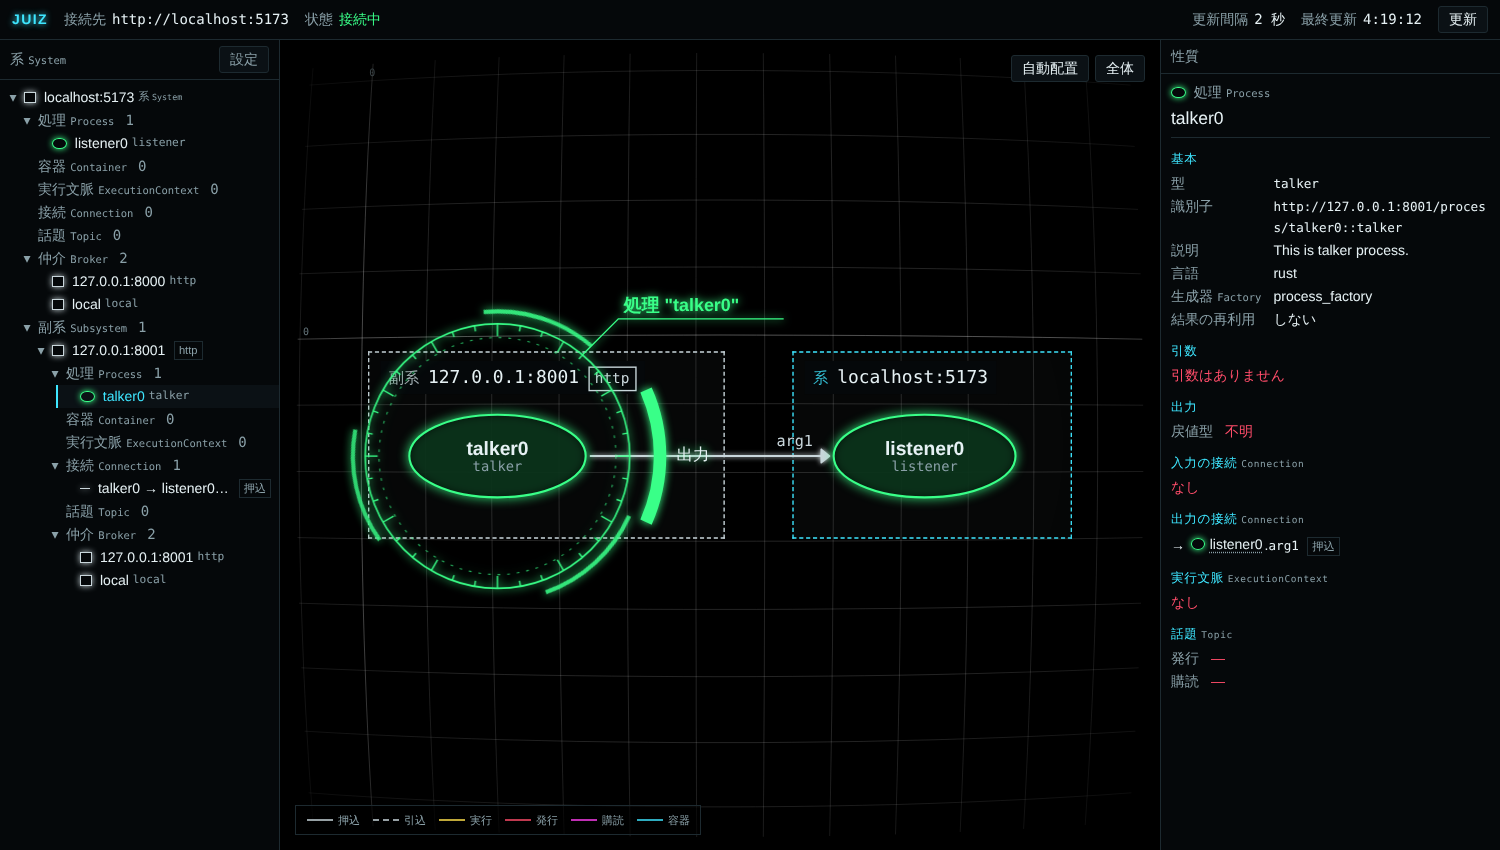
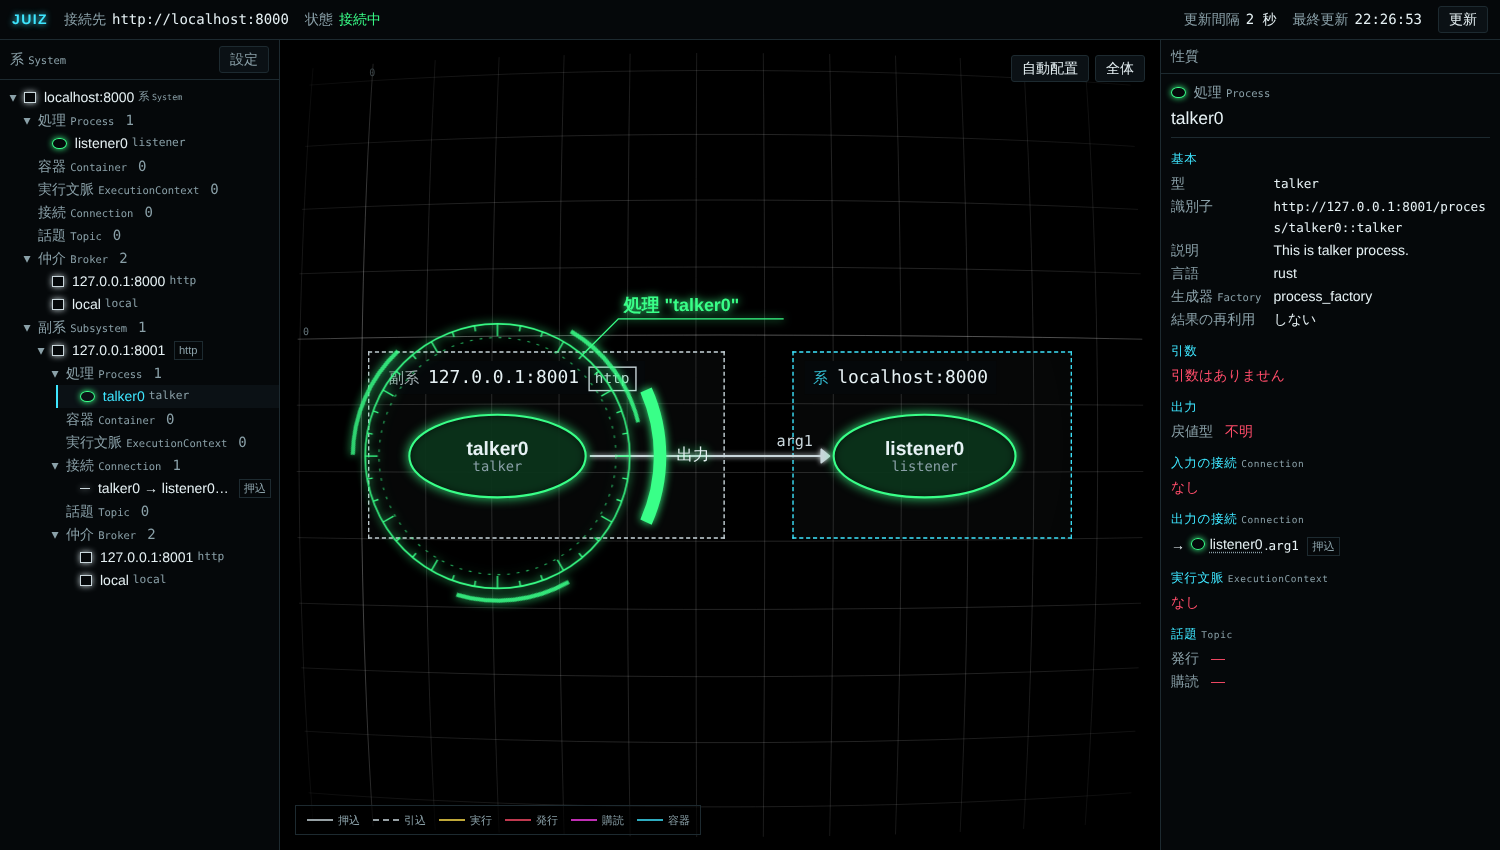
管理画面ガイドの副系のスクリーンショットを /ui/ で撮り直す
開発サーバー経由で撮った画像は接続先が localhost:5173 になっていたので、
同梱の画面(http://localhost:8000/ui/)で撮り直した。

Claude-Session: https://claude.ai/code/session_01DyphuKkuDa7LsSyixZ5rKR

diff --git a/src/content/docs/ja/guides/web-ui.md b/src/content/docs/ja/guides/web-ui.md
@@ -95,7 +95,7 @@ juiz に接続できなくなると、上部の状態が「未接続」になり
 [第6章 別々のプロセスをつなぐ](/ja/tutorial/multi-process/) のように、2 つ目の juiz が 1 つ目の juiz のサブシステムとして登録されていると、1 つ目の juiz の管理画面に 2 つ目の中身も出ます。
 たとえば listener を 8000 番、talker を 8001 番で起動して talker → listener をつないだあと、`http://localhost:8000/ui/` を開くと次のようになります。
 
-![副系の表示。副系 127.0.0.1:8001 の talker0 から、系の listener0 へ矢印が枠をまたいでいる](../../../../assets/web-ui/subsystem.png)
+![副系の表示。副系 127.0.0.1:8001 の talker0 から、系 localhost:8000 の listener0 へ矢印が枠をまたいでいる](../../../../assets/web-ui/subsystem.png)
 
 - 左のツリーでは、副系は系の「副系」の下に入れ子で出ます。経由する仲介(`http`、`qmp` など)が名前の横に出ます。中身を取れなかった副系には「取得不可」と出ます。
 - 図では、副系があるときだけ系ごとに破線の枠で囲みます。別の系どうしの接続は枠をまたぐ矢印になります。枠の見出しを押すと、その系が選ばれます。

diff --git a/src/content/docs/guides/web-ui.md b/src/content/docs/guides/web-ui.md
@@ -95,7 +95,7 @@ The legend at the bottom left of the diagram also lists the line styles.
 When a second juiz is registered as a subsystem of the first, as in [Chapter 6: Connecting separate processes](/tutorial/multi-process/), the first juiz's web UI shows the second one as well.
 For example, start listener on port 8000 and talker on port 8001, connect talker → listener, and open `http://localhost:8000/ui/`:
 
-![Subsystem view: an arrow crosses the frames from talker0 in subsystem 127.0.0.1:8001 to listener0 in the main System](../../../assets/web-ui/subsystem.png)
+![Subsystem view: an arrow crosses the frames from talker0 in subsystem 127.0.0.1:8001 to listener0 in System localhost:8000](../../../assets/web-ui/subsystem.png)
 
 - In the tree, subsystems are nested under 副系 (Subsystem) of the System, with the Broker they are reached through (`http`, `qmp`, ...) next to the name. A subsystem whose contents cannot be fetched is marked 取得不可 (unavailable).
 - In the diagram, each System gets a dashed frame, but only when there are subsystems. Connections between Systems are arrows that cross the frames. Click a frame's title to select that System.
